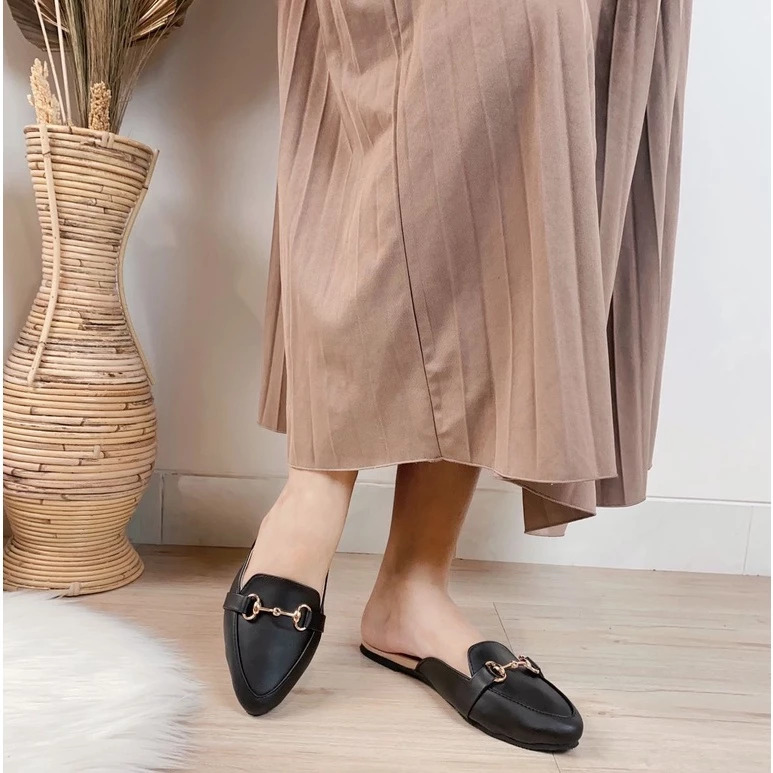
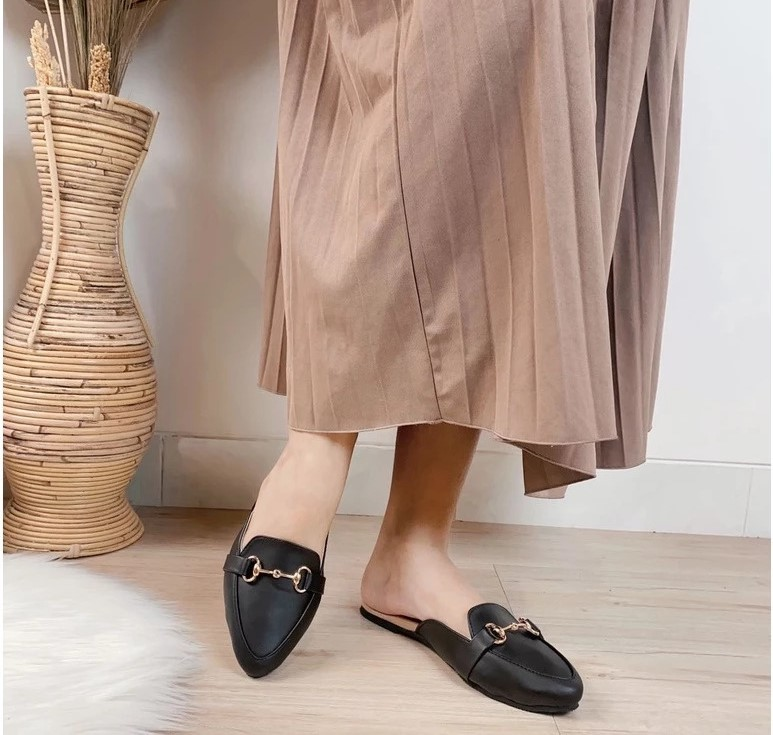
Mengubah detail-detail pada products.html

diff --git a/docs/index.html b/docs/index.html
@@ -167,7 +167,7 @@
          
           <div class="group cursor-pointer relative">
             <img
-              src="./images/hana2-test.jpg"
+              src="./images/eloise-merah-maroon.JPG"
               alt="Image 1"
               class="w-full h-48 md:h-60 object-cover rounded-lg transition-transform transform scale-100 group-hover:scale-105"
             />
@@ -189,8 +189,8 @@
          
           <div class="group cursor-pointer relative">
             <img
-              src="./images/hana4.jpg"
-              alt="Image 1"
+              src="./images/hana4-crop.jpg"
+              alt="Hana Red"
               class="w-full h-48 md:h-60 object-cover rounded-lg transition-transform transform scale-100 group-hover:scale-105"
             />
             <div class="absolute inset-0 flex items-center justify-center opacity-0 group-hover:opacity-100 transition-opacity">
@@ -200,8 +200,8 @@
          
           <div class="group cursor-pointer relative">
             <img
-              src="https://images.unsplash.com/photo-1505765050516-f72dcac9c60e?crop=entropy&cs=tinysrgb&fit=max&fm=jpg&ixid=M3w0NzEyNjZ8MHwxfHNlYXJjaHwxNHx8bmF0dXJlfGVufDB8MHx8fDE2OTQwOTk3Mjl8MA&ixlib=rb-4.0.3&q=80&w=1080"
-              alt="Image 1"
+              src="./images/eloise-black.jpeg"
+              alt="Eloise Black"
               class="w-full h-48 md:h-60 object-cover rounded-lg transition-transform transform scale-100 group-hover:scale-105"
             />
             <div class="absolute inset-0 flex items-center justify-center opacity-0 group-hover:opacity-100 transition-opacity">
@@ -291,10 +291,23 @@
         </div>
         
       </div>
-    
   </section>
 
- 
+  <div id="our-links"> 
+    <div>
+    
+    </div>
+  </div>
+
+  <a href="https://wa.me/6287730212323?text=Hallo%20min,%20apakah%20produk%20masih%20ada?" 
+  target="_blank" 
+  class="fixed bottom-4 right-4 bg-green-500 text-white px-4 py-2 flex items-center gap-2 rounded-full shadow-lg hover:bg-green-600 transition">
+   <svg xmlns="http://www.w3.org/2000/svg" width="24" height="24" viewBox="0 0 50 50" fill="currentColor">
+       <path d="M 25 2 C 12.309534 2 2 12.309534 2 25 C 2 29.079097 3.1186875 32.88588 4.984375 36.208984 L 2.0371094 46.730469 A 1.0001 1.0001 0 0 0 3.2402344 47.970703 L 14.210938 45.251953 C 17.434629 46.972929 21.092591 48 25 48 C 37.690466 48 48 37.690466 48 25 C 48 12.309534 37.690466 2 25 2 z M 25 4 C 36.609534 4 46 13.390466 46 25 C 46 36.609534 36.609534 46 25 46 C 21.278025 46 17.792121 45.029635 14.761719 43.333984 A 1.0001 1.0001 0 0 0 14.033203 43.236328 L 4.4257812 45.617188 L 7.0019531 36.425781 A 1.0001 1.0001 0 0 0 6.9023438 35.646484 C 5.0606869 32.523592 4 28.890107 4 25 C 4 13.390466 13.390466 4 25 4 z M 16.642578 13 C 16.001539 13 15.086045 13.23849 14.333984 14.048828 C 13.882268 14.535548 12 16.369511 12 19.59375 C 12 22.955271 14.331391 25.855848 14.613281 26.228516 L 14.615234 26.228516 L 14.615234 26.230469 C 14.588494 26.195329 14.973031 26.752191 15.486328 27.419922 C 15.999626 28.087653 16.717405 28.96464 17.619141 29.914062 C 19.422612 31.812909 21.958282 34.007419 25.105469 35.349609 C 26.554789 35.966779 27.698179 36.339417 28.564453 36.611328 C 30.169845 37.115426 31.632073 37.038799 32.730469 36.876953 C 33.55263 36.755876 34.456878 36.361114 35.351562 35.794922 C 36.246248 35.22873 37.12309 34.524722 37.509766 33.455078 C 37.786772 32.688244 37.927591 31.979598 37.978516 31.396484 C 38.003976 31.104927 38.007211 30.847602 37.988281 30.609375 C 37.969311 30.371148 37.989581 30.188664 37.767578 29.824219 C 37.302009 29.059804 36.774753 29.039853 36.224609 28.767578 C 35.918939 28.616297 35.048661 28.191329 34.175781 27.775391 C 33.303883 27.35992 32.54892 26.991953 32.083984 26.826172 C 31.790239 26.720488 31.431556 26.568352 30.914062 26.626953 C 30.396569 26.685553 29.88546 27.058933 29.587891 27.5 C 29.305837 27.918069 28.170387 29.258349 27.824219 29.652344 C 27.819619 29.649544 27.849659 29.663383 27.712891 29.595703 C 27.284761 29.383815 26.761157 29.203652 25.986328 28.794922 C 25.2115 28.386192 24.242255 27.782635 23.181641 26.847656 L 23.181641 26.845703 C 21.603029 25.455949 20.497272 23.711106 20.148438 23.125 C 20.171937 23.09704 20.145643 23.130901 20.195312 23.082031 L 20.197266 23.080078 C 20.553781 22.728924 20.869739 22.309521 21.136719 22.001953 C 21.515257 21.565866 21.68231 21.181437 21.863281 20.822266 C 22.223954 20.10644 22.02313 19.318742 21.814453 18.904297 L 21.814453 18.902344 C 21.828863 18.931014 21.701572 18.650157 21.564453 18.326172 C 21.426943 18.001263 21.251663 17.580039 21.064453 17.130859 C 20.690033 16.232501 20.272027 15.224912 20.023438 14.634766 L 20.023438 14.632812 C 19.730591 13.937684 19.334395 13.436908 18.816406 13.195312 C 18.298417 12.953717 17.840778 13.022402 17.822266 13.021484 L 17.820312 13.021484 C 17.450668 13.004432 17.045038 13 16.642578 13 z"></path>
+   </svg>
+   Whatsapp
+</a>
+
 
 
   <footer class="footer footer-center bg-[#1c1b1b] text-base-content rounded p-10">
@@ -325,9 +338,9 @@
       </div>
       <div id="contact">
         <div class="flex flex-col items-center mt-12 ">
-        <h1 class="font-cormorant text-lg md:text-2xl text-center  mb-4 md:mb-9 font-semibold text-center md:text-3xl text-white">PELAYANAN PELANGGAN</h1>
+        <h1 class="font-cormorant text-lg md:text-2xl text-center  mb-2 font-semibold text-center md:text-3xl text-white">PELAYANAN PELANGGAN</h1>
           <h3 class="font-cormorant text-lg text-center mb-3 mt-3 text-white"> Senin - Sabtu 08:00 - 22:00</h3>
-          <a href="#">
+          <a href="https://wa.me/6287730212323?text=Hallo%20min,%20apakah%20produk%20masih%20ada?" target="_blank">
             <button class="flex items-center gap-3  text-white font-poppins text-md mb-5 px-4 py-2 border rounded-md bg-green-500">
               <svg xmlns="http://www.w3.org/2000/svg" class="fill-white " width="24" height="24" viewBox="0 0 50 50">
                 <path d="M 25 2 C 12.309534 2 2 12.309534 2 25 C 2 29.079097 3.1186875 32.88588 4.984375 36.208984 L 2.0371094 46.730469 A 1.0001 1.0001 0 0 0 3.2402344 47.970703 L 14.210938 45.251953 C 17.434629 46.972929 21.092591 48 25 48 C 37.690466 48 48 37.690466 48 25 C 48 12.309534 37.690466 2 25 2 z M 25 4 C 36.609534 4 46 13.390466 46 25 C 46 36.609534 36.609534 46 25 46 C 21.278025 46 17.792121 45.029635 14.761719 43.333984 A 1.0001 1.0001 0 0 0 14.033203 43.236328 L 4.4257812 45.617188 L 7.0019531 36.425781 A 1.0001 1.0001 0 0 0 6.9023438 35.646484 C 5.0606869 32.523592 4 28.890107 4 25 C 4 13.390466 13.390466 4 25 4 z M 16.642578 13 C 16.001539 13 15.086045 13.23849 14.333984 14.048828 C 13.882268 14.535548 12 16.369511 12 19.59375 C 12 22.955271 14.331391 25.855848 14.613281 26.228516 L 14.615234 26.228516 L 14.615234 26.230469 C 14.588494 26.195329 14.973031 26.752191 15.486328 27.419922 C 15.999626 28.087653 16.717405 28.96464 17.619141 29.914062 C 19.422612 31.812909 21.958282 34.007419 25.105469 35.349609 C 26.554789 35.966779 27.698179 36.339417 28.564453 36.611328 C 30.169845 37.115426 31.632073 37.038799 32.730469 36.876953 C 33.55263 36.755876 34.456878 36.361114 35.351562 35.794922 C 36.246248 35.22873 37.12309 34.524722 37.509766 33.455078 C 37.786772 32.688244 37.927591 31.979598 37.978516 31.396484 C 38.003976 31.104927 38.007211 30.847602 37.988281 30.609375 C 37.969311 30.371148 37.989581 30.188664 37.767578 29.824219 C 37.302009 29.059804 36.774753 29.039853 36.224609 28.767578 C 35.918939 28.616297 35.048661 28.191329 34.175781 27.775391 C 33.303883 27.35992 32.54892 26.991953 32.083984 26.826172 C 31.790239 26.720488 31.431556 26.568352 30.914062 26.626953 C 30.396569 26.685553 29.88546 27.058933 29.587891 27.5 C 29.305837 27.918069 28.170387 29.258349 27.824219 29.652344 C 27.819619 29.649544 27.849659 29.663383 27.712891 29.595703 C 27.284761 29.383815 26.761157 29.203652 25.986328 28.794922 C 25.2115 28.386192 24.242255 27.782635 23.181641 26.847656 L 23.181641 26.845703 C 21.603029 25.455949 20.497272 23.711106 20.148438 23.125 C 20.171937 23.09704 20.145643 23.130901 20.195312 23.082031 L 20.197266 23.080078 C 20.553781 22.728924 20.869739 22.309521 21.136719 22.001953 C 21.515257 21.565866 21.68231 21.181437 21.863281 20.822266 C 22.223954 20.10644 22.02313 19.318742 21.814453 18.904297 L 21.814453 18.902344 C 21.828863 18.931014 21.701572 18.650157 21.564453 18.326172 C 21.426943 18.001263 21.251663 17.580039 21.064453 17.130859 C 20.690033 16.232501 20.272027 15.224912 20.023438 14.634766 L 20.023438 14.632812 C 19.730591 13.937684 19.334395 13.436908 18.816406 13.195312 C 18.298417 12.953717 17.840778 13.022402 17.822266 13.021484 L 17.820312 13.021484 C 17.450668 13.004432 17.045038 13 16.642578 13 z"></path>

diff --git a/docs/script.js b/docs/script.js
@@ -23,8 +23,12 @@ document.addEventListener("DOMContentLoaded", function () {
   const hanaImages = [
       "./images/hana2.jpg",
       "./images/hana-yara.jpg", 
+      "./images/hana-black.jpg",
       "./images/hana3.jpg",
-      "./images/hana4.jpg" 
+      "./images/hana4.jpg",
+      "./images/hana-3-warna.jpg",
+      "./images/hana-sizechart.jpg"
+      
   ];
 
   let currentIndex = 0;
@@ -54,63 +58,84 @@ document.addEventListener("DOMContentLoaded", function () {
   const productDescriptions = {
       "Evelyn Yara Shoes": `
           <div class="text-gray-800">
-              <button class="font-semibold text-lg mt-3 text-blue-600" id="detail-produk-btn">Detail Produk</button>
+              <button class="font-semibold font-poppins text-md md:text-lg mt-2 text-[#697565]" id="detail-produk-btn">Detail Produk</button>
               <ul id="detail-list-produk" class="list-disc ml-5 space-y-1">
-                  <li>Model: Heels dengan aksen 2 tali sabuk</li>
-                  <li>Tinggi Hak: ±3cm</li>
-                  <li>Bahan Upper: PU Leather Premium</li>
-                  <li>Bahan Sol: Karet TPR Anti-Slip</li>
-                  <li>Pilihan Warna: Hitam, Marun, Mocca, Cream</li>
-                  <li>Size: 37 | 38 | 39 | 40 | 41</li>
+                  <li class="font-poppins text-sm md:text-base">Model: Heels dengan aksen 2 tali sabuk</li>
+                  <li class="font-poppins text-sm md:text-base">Tinggi Hak: ±3cm</li>
+                  <li class="font-poppins text-sm md:text-base">Bahan Upper: PU Leather Premium</li>
+                  <li class="font-poppins text-sm md:text-base">Bahan Sol: Karet TPR Anti-Slip</li>
+                  <li class="font-poppins text-sm md:text-base">Pilihan Warna: Hitam, Marun, Mocca, Cream</li>
+                  <li class="font-poppins text-sm md:text-base">Size: 37 | 38 | 39 | 40 | 41</li>
               </ul>
-              <h3 class="font-semibold text-lg mt-3 text-blue-600">Panduan Ukuran (Insole Length)</h3>
+              <h3 class="font-semibold font-poppins  text-md md:text-lg mt-2 text-[#697565]">Panduan Ukuran (Insole Length)</h3>
               <ul class="list-disc ml-5 space-y-1">
-                  <li>37 = 23 cm</li>
-                  <li>38 = 23,5 cm</li>
-                  <li>39 = 24 cm</li>
-                  <li>40 = 24,5 cm</li>
-                  <li>41 = 25 cm</li>
+                  <li class="font-poppins text-sm md:text-base">37 = 23 cm</li>
+                  <li class="font-poppins text-sm md:text-base">38 = 23,5 cm</li>
+                  <li class="font-poppins text-sm md:text-base">39 = 24 cm</li>
+                  <li class="font-poppins text-sm md:text-base">40 = 24,5 cm</li>
+                  <li class="font-poppins text-sm md:text-base">41 = 25 cm</li>
               </ul>
-              <p class="mt-3 text-red-600 font-semibold">⚠ Disarankan pilih 1 size lebih besar jika kaki lebar atau lebih suka longgar.</p>
+              <p class="mt-3 font-poppins text-sm text-red-600 font-semibold">⚠ Disarankan pilih 1 size lebih besar jika kaki lebar atau lebih suka longgar.</p>
           </div>
       `,
       "Eloise Yara Shoes": `
           <div class="text-gray-800">
-              <h3 class="font-semibold text-lg text-blue-600">Detail Produk</h3>
+              <h3 class="font-semibold font-poppins text-md md:text-lg mt-2 text-[#697565]">Detail Produk</h3>
               <ul class="list-disc ml-5 space-y-1">
-                  <li>Model: Flat shoes dengan desain elegan</li>
-                  <li>Bahan Upper: Suede premium</li>
-                  <li>Bahan Sol: Karet anti-slip</li>
-                  <li>Pilihan Warna: Hitam, Coklat, Beige</li>
-                  <li>Size: 36 | 37 | 38 | 39 | 40 | 41</li>
+                    <li class="font-poppins text-sm md:text-base">Model: Heels bahan mengkilat dengan tali belakang karet</li>
+    <li class="font-poppins text-sm md:text-base">Tinggi Hak: ±3cm</li>
+    <li class="font-poppins text-sm md:text-base">Bahan Upper: PU Leather Glossy (Mengkilat)</li>
+    <li class="font-poppins text-sm md:text-base">Bahan Sol: Karet TPR Anti-Slip</li>
+    <li class="font-poppins text-sm md:text-base">Pilihan Warna: Hitam, Maroon, Mocca, Cream</li>
+    <li class="font-poppins text-sm md:text-base">Size: 37 | 38 | 39 | 40 | 41</li>
               </ul>
+              <h3 class="font-semibold font-poppins  text-md md:text-lg mt-2 text-[#697565]">Panduan Ukuran (Insole Length)</h3>
+              <ul class="list-disc ml-5 space-y-1">
+                  <li class="font-poppins text-sm md:text-base">37 = 23 cm</li>
+                  <li class="font-poppins text-sm md:text-base">38 = 23,5 cm</li>
+                  <li class="font-poppins text-sm md:text-base">39 = 24 cm</li>
+                  <li class="font-poppins text-sm md:text-base">40 = 24,5 cm</li>
+                  <li class="font-poppins text-sm md:text-base">41 = 25 cm</li>
+              </ul>
+                <p class="mt-3 font-poppins text-sm text-red-600 font-semibold">⚠ Disarankan pilih 1 size lebih besar jika kaki lebar atau lebih suka longgar.</p>
           </div>
       `,
       "Hana Yara Shoes": `
           <div class="text-gray-800">
-              <h3 class="font-semibold text-lg text-blue-600">Detail Produk</h3>
+              <h3 class="font-semibold text-md md:text-lg mt-2 text-[#697565]">Detail Produk</h3>
               <ul class="list-disc ml-5 space-y-1">
-                  <li>Model: Sandal wedges ringan</li>
-                  <li>Tinggi Wedges: ±4cm</li>
-                  <li>Bahan Upper: Kulit sintetis premium</li>
-                  <li>Bahan Sol: EVA super ringan</li>
-                  <li>Pilihan Warna: Hitam, Putih, Coklat</li>
-                  <li>Size: 37 | 38 | 39 | 40 | 41</li>
+                 <li class="font-poppins text-sm md:text-base">Bahan Utama: Kulit sintetis premium, inner suede lembut</li>
+<li class="font-poppins text-sm md:text-base">Sole: Karet anti-slip, ringan, dan fleksibel</li>
+<li class="font-poppins text-sm md:text-base">Model: Open-back, slip-on, sangat praktis untuk dipakai dan dilepas</li>
+<li class="font-poppins text-sm md:text-base">Warna: Tersedia dalam warna netral dan pastel seperti hitam, putih, beige, cokelat, dan dusty pink</li>
+<li class="font-poppins text-sm md:text-base">Detail Desain: Minimalis dengan aksen elegan seperti pita kecil, buckle logam, atau jahitan rapi</li>
+
               </ul>
+
+              <ul class="font-poppins text-sm md:text-base">
+    <h3 class="font-semibold font-poppins  text-md md:text-lg mt-2 text-[#697565]">Panduan Ukuran (CM): </h3>
+    <li>36 →  22.5 - 23 CM</li>
+    <li>37 →  23 - 23.5 CM</li>
+    <li>38 →  23.5 - 24 CM</li>
+    <li>39 →  24 - 24.5 CM</li>
+    <li>40 →  24.5 - 25 CM</li>
+</ul>
+
           </div>
       `
   };
 
-  if (name && params.get("price") && params.get("image") && params.get("description")) {
+  if (name && params.get("price") && params.get("image")) {
       document.getElementById("product-name").textContent = name;
       document.getElementById("product-price").textContent = params.get("price");
       document.getElementById("product-image").src = params.get("image");
-      document.getElementById("product-description").innerHTML = params.get("description") + (productDescriptions[name] || "");
+      document.getElementById("product-description").innerHTML = productDescriptions[name] || "";
+
   }
 
   if (name === "Evelyn Yara Shoes") {
       document.getElementById("shopee-link").href = "https://shopee.co.id/Evelyn-Yara-Footwear-Papake.id-Heels-Wanita-3cm-i.255026444.28224928826?sp_atk=c10f4f25-778f-4e7a-b197-b7480c19f007";
-      document.getElementById("tokopedia-link").href = "https://shopee.co.id/Evelyn-Yara-Footwear-Papake.id-Heels-Wanita-3cm-i.255026444.28224928826?sp_atk=c10f4f25-778f-4e7a-b197-b7480c19f007";
+      document.getElementById("tiktok-link").href = "";
   } else if (name === "Eloise Yara Shoes"){
     document.getElementById("shopee-link").href= "https://shopee.co.id/Eloise-Yara-Footwear-Papake.id-Heels-Wanita-Aksen-Tali-Karet-Hak-3cm-Nyaman-Elegan-i.255026444.26474925503"
   }

diff --git a/docs/products.html b/docs/products.html
@@ -7,13 +7,14 @@
     <link href="./output.css" rel="stylesheet">
     <link rel="preconnect" href="https://fonts.googleapis.com">
 <link rel="preconnect" href="https://fonts.gstatic.com" crossorigin>
+<link href="https://fonts.googleapis.com/css2?family=Poppins:ital,wght@0,100;0,200;0,300;0,400;0,500;0,600;0,700;0,800;0,900;1,100;1,200;1,300;1,400;1,500;1,600;1,700;1,800;1,900&display=swap" rel="stylesheet">
 <link href="https://fonts.googleapis.com/css2?family=Cormorant+Garamond:ital,wght@0,300;0,400;0,500;0,600;0,700;1,300;1,400;1,500;1,600;1,700&display=swap" rel="stylesheet">
 </head>
 <body>
   <header id="home">
     <div class="w-full flex items-center justify-between bg-[#1c1b1b] md:py-3">
       <div class="logo ml-3">
-        <a href="#home">
+        <a href="index.html">
           
           <img class="w-24 md:w-32 h-auto py-3 px-3 cur" src="./images/LOGO YARA PNK_PJG.png" alt="Logo Yara">
         </a>
@@ -42,10 +43,16 @@
     </div>
     <div id="mobile-nav" class="hidden mx-auto w-[90%] my-3 bg-[#fbf4ea]">
       <ul class="gap-4 py-3 px-3 mx-2">
-       <a href="#"> <li class="py-2 px-3 cursor-pointer ease-in duration-100 bg-[#1c1b1b] text-white font-cormorant font-bold">Home</li></a>
-       <a href="#"> <li class="py-2 px-3 cursor-pointer ease-in duration-100 hover:bg-[#1c1b1b] hover:bg-opacity-55 hover:text-white font-cormorant font-bold text-[#1c1b1b]">Koleksi</li></a>
-       <a href="#"><li class="py-2 px-3 cursor-pointer ease-in duration-100 hover:bg-[#1c1b1b] hover:bg-opacity-55 hover:text-white font-cormorant font-bold text-[#1c1b1b]">Produk</li></a>
-       <a href="#"> <li class="py-2 px-3 cursor-pointer ease-in duration-100 hover:bg-[#1c1b1b] hover:bg-opacity-55 hover:text-white font-cormorant font-bold text-[#1c1b1b]">Contact</li></a>
+        <a href="index.html"> 
+          <li class="py-2 px-3 cursor-pointer ease-in duration-100 bg-[#1c1b1b] hover:bg-amber-800 text-white font-cormorant font-bold flex items-center gap-2">
+              <svg xmlns="http://www.w3.org/2000/svg" width="20" height="20" viewBox="0 0 24 24" fill="currentColor">
+                  <path d="M15.54 3.54a1.25 1.25 0 0 1 0 1.77L9.81 12l5.73 6.69a1.25 1.25 0 0 1-1.88 1.64l-6.5-7.6a1.25 1.25 0 0 1 0-1.64l6.5-7.6a1.25 1.25 0 0 1 1.88 0Z"/>
+              </svg>
+              Kembali ke Home
+          </li>
+      </a>
+      
+
 
       </ul>
     </div>
@@ -80,18 +87,19 @@
 
             <!-- Link ke marketplace -->
             <div class="flex flex-col space-y-3 mt-4 w-full md:w-[90%]">
-                <a id="tokopedia-link" href="#" target="_blank" 
-                    class="flex items-center justify-center bg-green-500 text-white font-semibold px-6 py-4 rounded-lg shadow-lg w-full">
-                    <img class="w-6 h-6 mr-2" src="./images/tokopedia-icon.png" alt="Tokopedia">
-                    Beli di Tokopedia
-                </a>
-
-                <a id="shopee-link" href="#" target="_blank" 
-                    class="flex items-center justify-center bg-orange-500 text-white font-semibold px-6 py-4 rounded-lg shadow-lg w-full">
-                    <img class="w-6 h-6 mr-2" src="./images/shopee-icon.png" alt="Shopee">
-                    Beli di Shopee
-                </a>
-            </div>
+              <a id="tiktok-link" href="#" target="_blank" 
+                  class="flex items-center justify-center bg-black hover:bg-slate-700 text-white font-semibold px-6 py-4 rounded-lg shadow-lg w-full">
+                  <img class="w-5 h-6 mr-2 " src="./images/tiktok-shop-white-icon.png" alt="Tiktokshop">
+                  <span class="font-poppins">Beli di Tiktokshop</span>
+              </a>
+          
+              <a id="shopee-link" href="#" target="_blank" 
+                  class="flex items-center justify-center bg-orange-500 hover:bg-orange-300 text-white font-semibold px-6 py-4 rounded-lg shadow-lg w-full">
+                  <img class="w-6 h-6 mr-2" src="./images/shopee-icon.png" alt="Shopee">
+                  <span>Beli di Shopee</span>
+              </a>
+          </div>
+          
         </div>
     </div>
 </main>

diff --git a/docs/output.css b/docs/output.css
@@ -1180,6 +1180,10 @@ video {
   margin-top: 0px;
 }
 
+.fixed {
+  position: fixed;
+}
+
 .absolute {
   position: absolute;
 }
@@ -1216,6 +1220,14 @@ video {
   top: 50%;
 }
 
+.bottom-4 {
+  bottom: 1rem;
+}
+
+.right-4 {
+  right: 1rem;
+}
+
 .z-10 {
   z-index: 10;
 }
@@ -1243,12 +1255,12 @@ video {
   margin-bottom: 2.5rem;
 }
 
-.mb-3 {
-  margin-bottom: 0.75rem;
+.mb-2 {
+  margin-bottom: 0.5rem;
 }
 
-.mb-4 {
-  margin-bottom: 1rem;
+.mb-3 {
+  margin-bottom: 0.75rem;
 }
 
 .mb-5 {
@@ -1491,6 +1503,10 @@ video {
   gap: 1.5rem;
 }
 
+.gap-2 {
+  gap: 0.5rem;
+}
+
 .space-y-1 > :not([hidden]) ~ :not([hidden]) {
   --tw-space-y-reverse: 0;
   margin-top: calc(0.25rem * calc(1 - var(--tw-space-y-reverse)));
@@ -1702,6 +1718,11 @@ video {
   line-height: 1.75rem;
 }
 
+.text-base {
+  font-size: 1rem;
+  line-height: 1.5rem;
+}
+
 .font-bold {
   font-weight: 700;
 }
@@ -1713,6 +1734,11 @@ video {
 .text-\[\#1c1b1b\] {
   --tw-text-opacity: 1;
   color: rgb(28 27 27 / var(--tw-text-opacity, 1));
+}
+
+.text-\[\#697565\] {
+  --tw-text-opacity: 1;
+  color: rgb(105 117 101 / var(--tw-text-opacity, 1));
 }
 
 .text-base-content {
@@ -1821,9 +1847,29 @@ video {
   background-color: rgb(55 65 81 / var(--tw-bg-opacity, 1));
 }
 
+.hover\:bg-orange-200:hover {
+  --tw-bg-opacity: 1;
+  background-color: rgb(254 215 170 / var(--tw-bg-opacity, 1));
+}
+
 .hover\:bg-pink-300:hover {
   --tw-bg-opacity: 1;
   background-color: rgb(249 168 212 / var(--tw-bg-opacity, 1));
+}
+
+.hover\:bg-slate-700:hover {
+  --tw-bg-opacity: 1;
+  background-color: rgb(51 65 85 / var(--tw-bg-opacity, 1));
+}
+
+.hover\:bg-orange-300:hover {
+  --tw-bg-opacity: 1;
+  background-color: rgb(253 186 116 / var(--tw-bg-opacity, 1));
+}
+
+.hover\:bg-green-600:hover {
+  --tw-bg-opacity: 1;
+  background-color: rgb(22 163 74 / var(--tw-bg-opacity, 1));
 }
 
 .hover\:bg-opacity-55:hover {
@@ -1870,10 +1916,6 @@ video {
 }
 
 @media (min-width: 768px) {
-  .md\:mb-9 {
-    margin-bottom: 2.25rem;
-  }
-
   .md\:flex {
     display: flex;
   }
@@ -1949,6 +1991,11 @@ video {
   .md\:text-5xl {
     font-size: 3rem;
     line-height: 1;
+  }
+
+  .md\:text-base {
+    font-size: 1rem;
+    line-height: 1.5rem;
   }
 
   .md\:text-lg {
